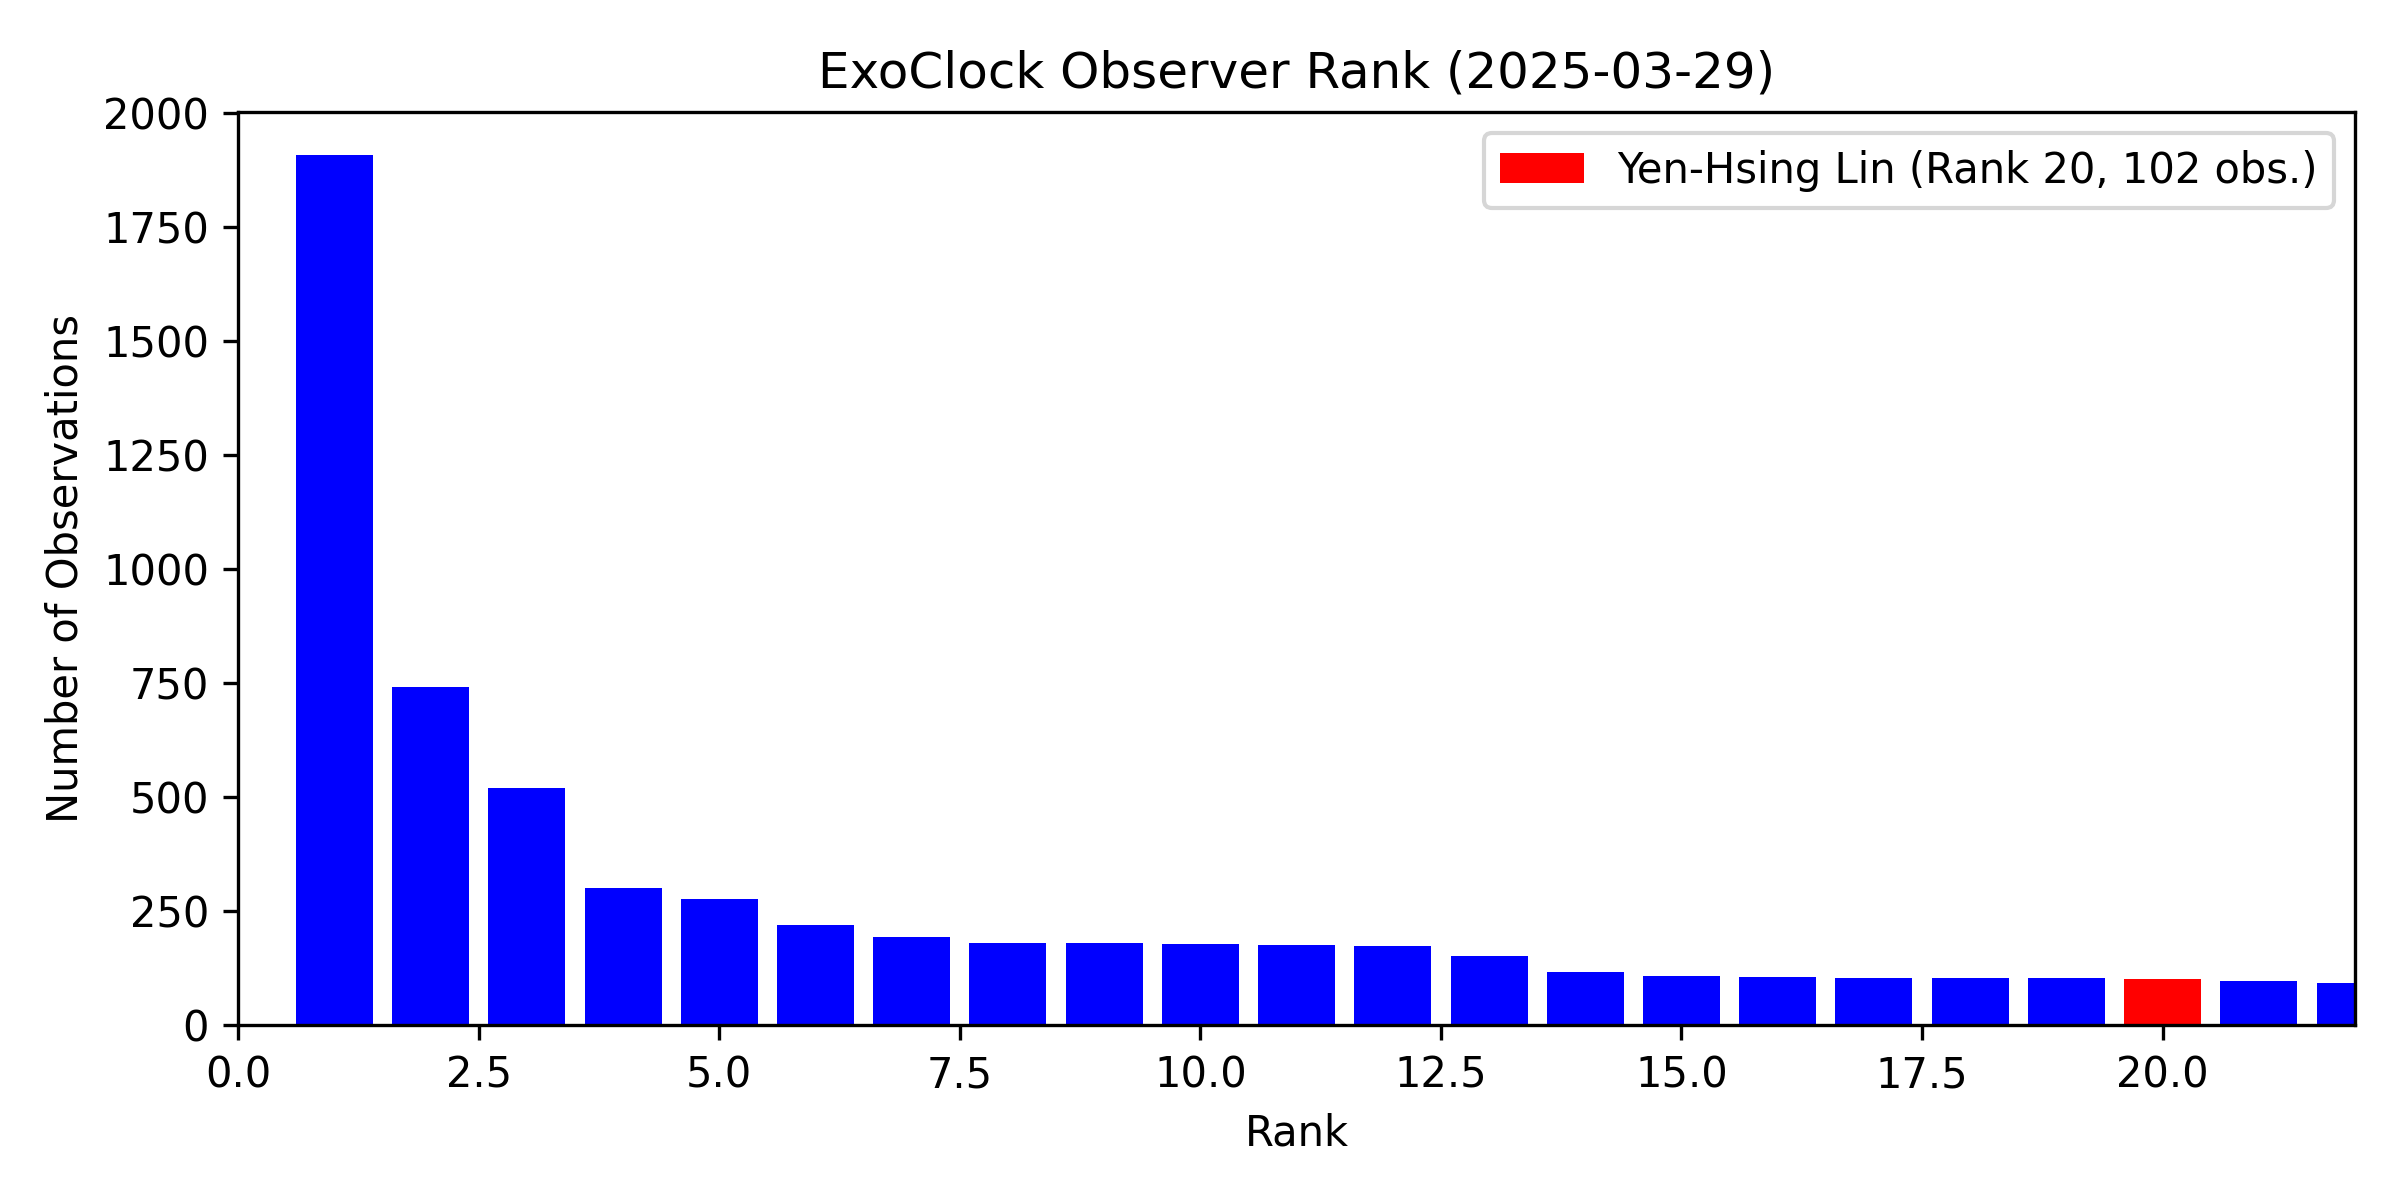
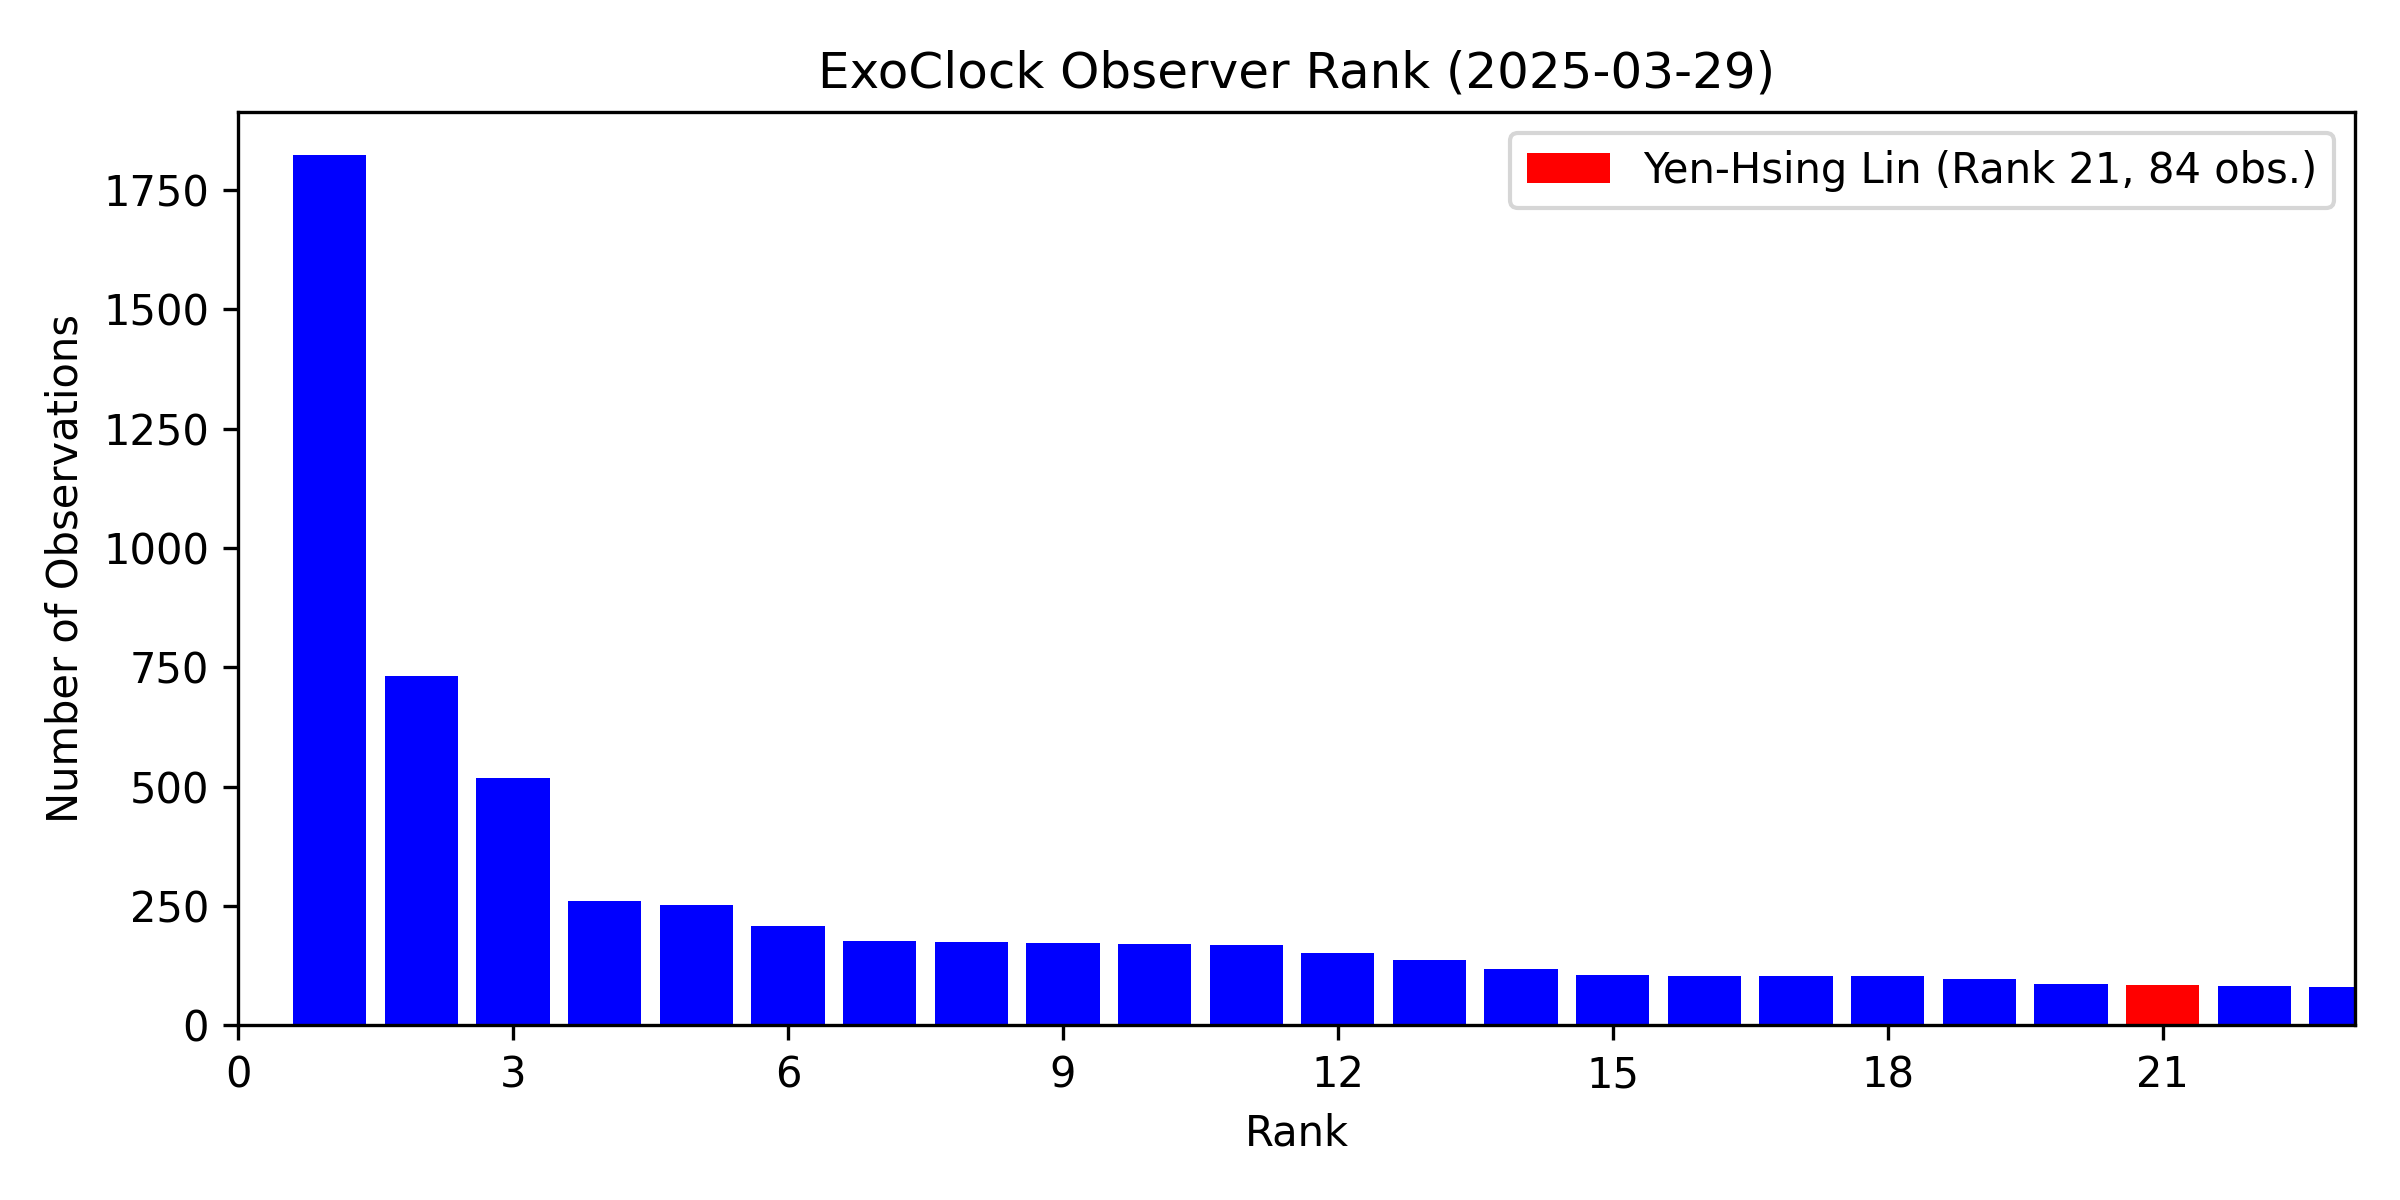
update x ticks on RankPlot

diff --git a/observations/Make_RankPlot.py b/observations/Make_RankPlot.py
@@ -1,6 +1,7 @@
 import pandas as pd
 import matplotlib.pyplot as plt
 from datetime import datetime
+import numpy as np
 
 #plt.rcParams.update({"text.usetex": True})
 #plt.rcParams['font.family'] = 'STIXGeneral'
@@ -27,6 +28,11 @@ ax.set_xlim(0, yen_hsing_lin_rank*1.1)
 ax.set_xlabel('Rank')
 ax.set_ylabel('Number of Observations')
 ax.set_title(f'ExoClock Observer Rank ({datetime.now().strftime("%Y-%m-%d")})')
+
+# Set integer x-ticks
+max_rank = int(yen_hsing_lin_rank+2)
+ax.set_xticks(np.arange(0, max_rank+1, max(1, max_rank//10)))
+ax.xaxis.set_major_locator(plt.MaxNLocator(integer=True))
 # Show the plot
 #ax.set_yscale('log')
 plt.legend()
